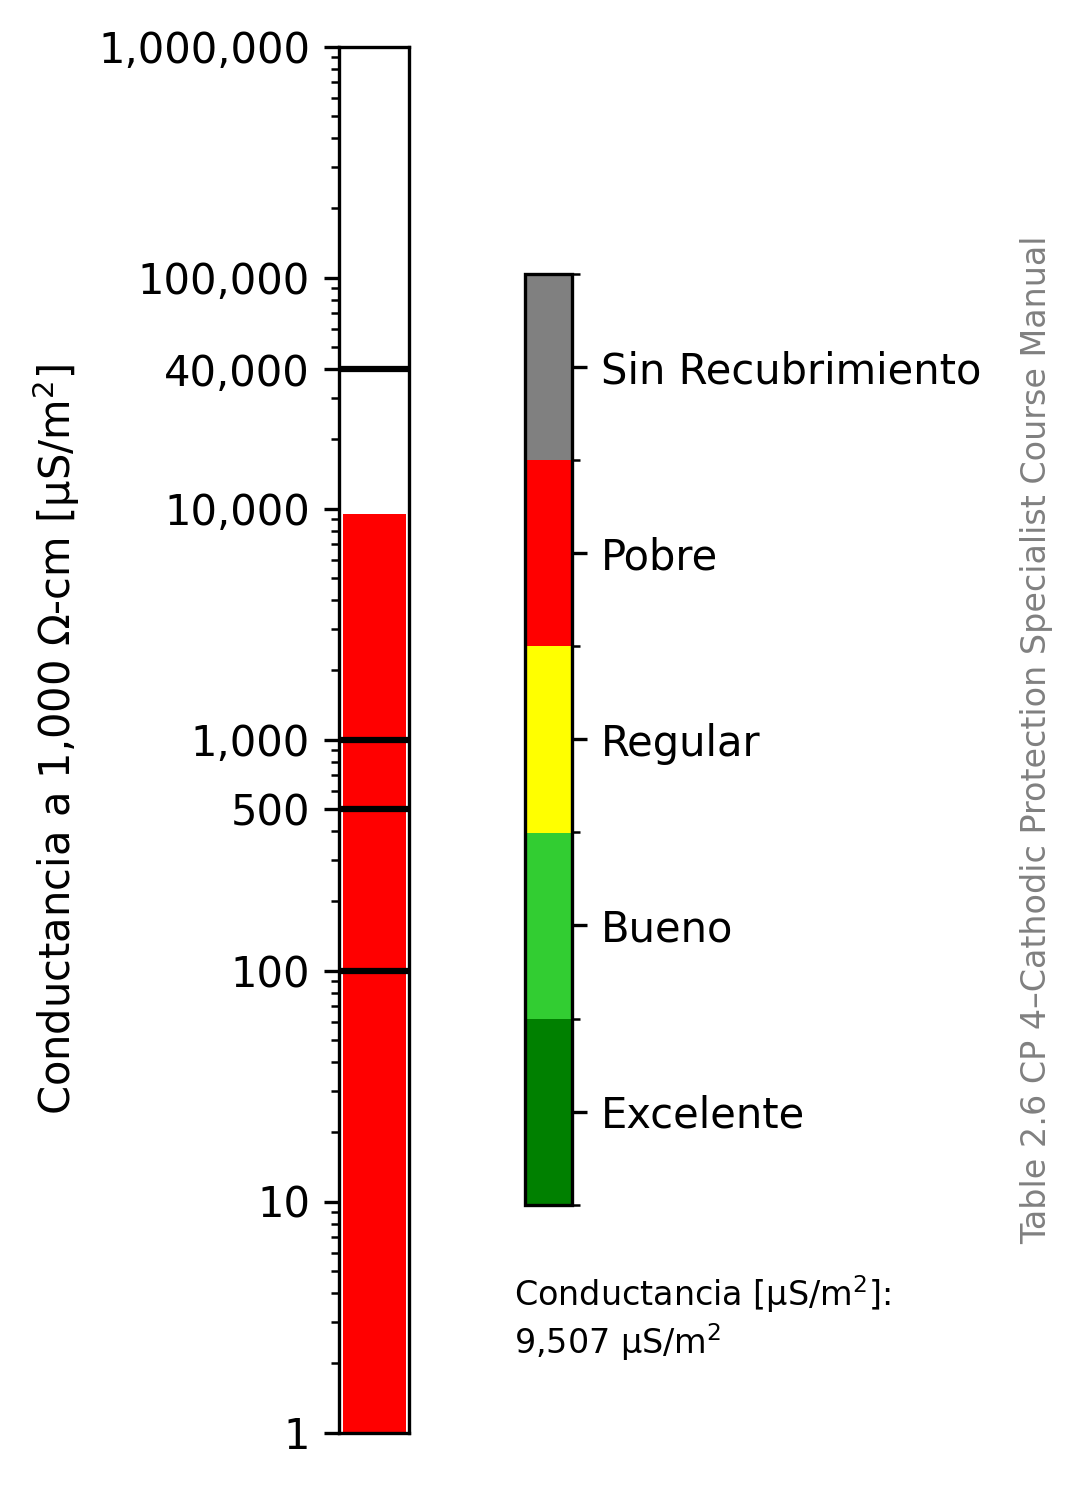
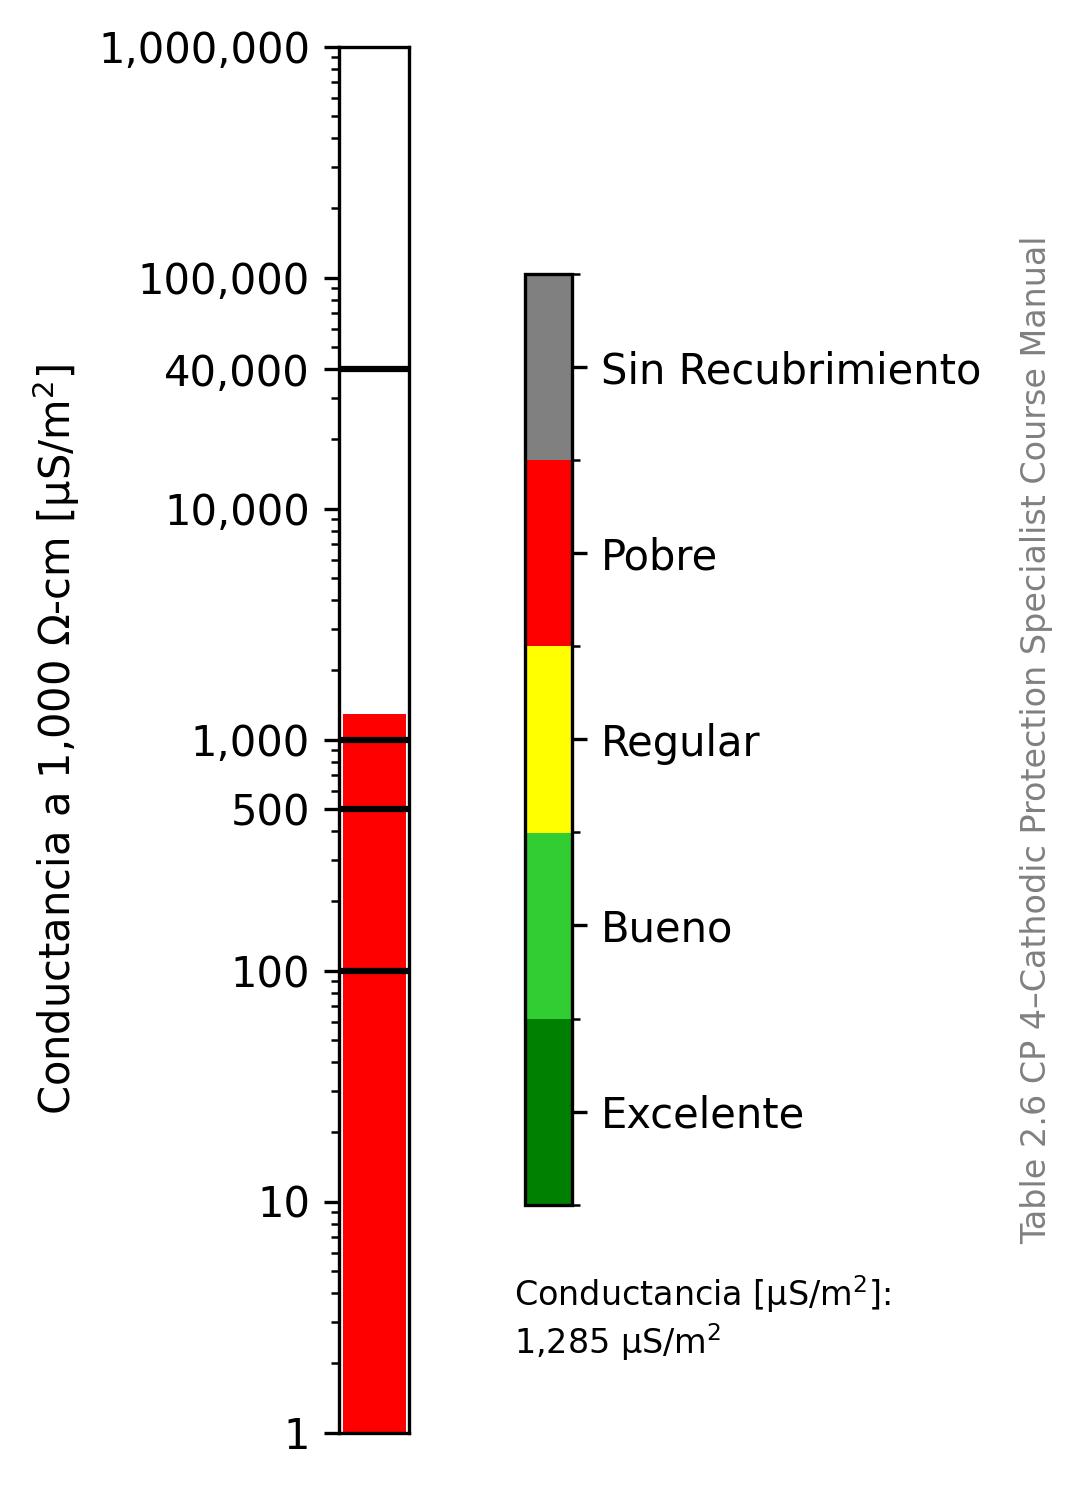
Add tuberias_TM0102 function for NACE TM0102-2023 conductance measurement and update Conductancia_específica.py to display results

Changed region(s): [[0.3047, 0.3401, 0.3961, 0.4946], [0.4875, 0.8965, 0.5789, 0.9274]]

diff --git a/funciones.py b/funciones.py
@@ -318,6 +318,62 @@ def tuberias_distribucion(valor_conductancia):
     return 'images/tuberias_distribucion.png'
     # plt.show()
 
+def tuberias_TM0102(valor):
+    fig, ax = plt.subplots(figsize=(1, 6))
+    # Determine the color based on the value
+    if valor <= 100:
+        bar_color = 'green'
+    elif valor <= 500:
+        bar_color = 'limegreen'
+    elif valor <= 2000:
+        bar_color = 'yellow'
+    elif valor <= 1000000:
+        bar_color = 'red'   
+
+    ax.bar(1, valor, color=bar_color, width=1)
+    # print(ax.get_xlim())
+    minimo_x, maximo_x=ax.get_xlim()
+    ax.set_xlim(minimo_x, maximo_x)
+    
+    ax.set_yscale('log')
+    
+    if valor<200000:
+        ax.set_ylim(5, 200000)
+        additional_yticks = [2000,500]
+    else:
+        ax.set_ylim(5, 1000000)
+        additional_yticks = [2000,500]
+    
+    ax.get_yaxis().set_major_formatter(plt.FuncFormatter(lambda x, loc: "{:,}".format(int(x))))
+
+    # Crear el mapa de colores
+    cmap = ListedColormap(['green', 'limegreen', 'yellow', 'red'])
+    norm_bins = np.array([0, 1, 2, 3, 4])
+    norm = matplotlib.colors.BoundaryNorm(norm_bins, cmap.N)
+    sm = plt.cm.ScalarMappable(cmap=cmap, norm=norm)
+    sm.set_array([])
+    cbar = plt.colorbar(sm, ticks=[0.5, 1.5, 2.5, 3.5], ax=ax, fraction=0.2, pad=0.5)
+    cbar.ax.set_yticklabels(['Excellent', 'Good', 'Fair', 'Poor'])
+    cbar.ax.set_aspect('auto')
+    ax.set_ylabel('Conductancia a 1,000 Ω-cm [μS/m$^2$]')
+    ax.get_xaxis().set_visible(False)
+    for each in [100,500,2000]:
+        ax.hlines(y=each, xmin=minimo_x, xmax=maximo_x, colors='black', linestyles='-')
+    ax.set_yticks(list(ax.get_yticks()) + additional_yticks)
+    if valor<100000:
+        ax.set_ylim(5, 1000000)
+        additional_yticks = [2000,500]
+    else:
+        ax.set_ylim(5, 10000000)
+        additional_yticks = [2000,500]  
+    ax.get_yaxis().set_major_formatter(plt.FuncFormatter(lambda x, loc: "{:,}".format(int(x))))
+    ax.text(2.5, .05, f'Conductancia [μS/m$^2$]:\n{valor:,.0f} μS/m$^2$', ha='left', va='bottom', fontsize=8, color='black', transform=ax.transAxes)
+    ax.text(8.5, .5, 'NACE TM0102-2023\nMeasurement of Protective Coating Electrical Conductance on Underground Pipelines\nTable 5 Table of Specific Coating Conductance vs Coating Quality for 1,000 Ω-cm Soil', ha='center', va='center', transform=ax.transAxes, fontsize=8, color='gray', rotation=90)
+    plt.savefig('images/barras_TM0102.png', dpi=300, bbox_inches='tight')
+    # plt.show()
+    return 'images/barras_TM0102.png'
+   
+
 
 
 # print(radianes_a_horas(2.103121749))

diff --git a/pages/Conductancia_específica.py b/pages/Conductancia_específica.py
@@ -1,5 +1,5 @@
 import streamlit as st
-from funciones import grafica_conductancia, tuberias_largas, tuberias_distribucion
+from funciones import grafica_conductancia, tuberias_largas, tuberias_distribucion, tuberias_TM0102
 import numpy as np
 
 def Conductancia_específica():
@@ -142,6 +142,11 @@ def Conductancia_específica():
                         elif tipo=='Distribución de Gas o Agua, con muchas ramificaciones':
                             tuberias_distribucion(valor_conductancia)
                             st.image('images/tuberias_distribucion.png', caption='Tuberías largas con pocas ramificaciones', use_container_width=True)
+                            
+                        tuberias_TM0102(valor_conductancia)    
+                        st.header("5.1.-Resultados NACE-TM0102")
+                        st.image('images/barras_TM0102.png', caption='Conductancia específica μS/m² y clasificación - NACE-TM0102', width=300)
+
                             
 
 if __name__ == "__main__":
